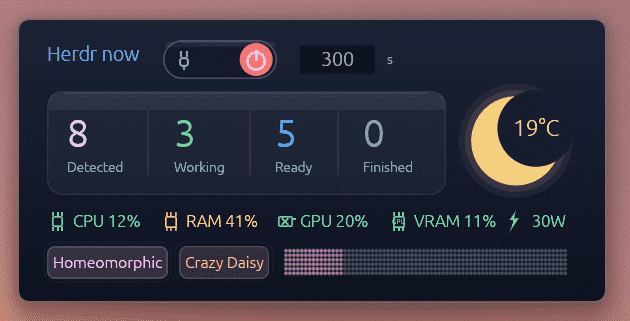
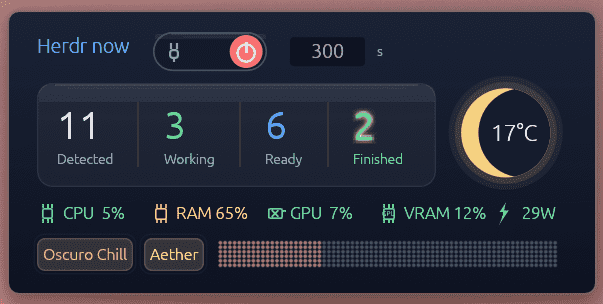
feat(live-status): polish finished KPI and release screenshots
- Highlight finished agents with a restrained halo treatment\n- Separate energy actions from tray diagnostics in the log viewer\n- Refresh German and English release screenshots and README links\n\nCo-Authored-By: Codex <noreply@openai.com>

diff --git a/src/log_viewer.rs b/src/log_viewer.rs
@@ -37,6 +37,7 @@ pub fn run() -> Result<()> {
                 window_settings::WindowLevel::current(),
             ))
             .with_title(log_title(language)),
+        renderer: eframe::Renderer::Glow,
         ..Default::default()
     };
     eframe::run_native(
@@ -76,9 +77,17 @@ struct LogEntry {
     run_id: String,
 }
 
+#[derive(Clone, Copy, PartialEq, Eq)]
+enum LogSection {
+    Energy,
+    Tray,
+}
+
 struct LogApp {
     language: Language,
-    entries: Vec<LogEntry>,
+    energy_entries: Vec<LogEntry>,
+    tray_entries: Vec<LogEntry>,
+    section: LogSection,
     error: Option<String>,
     opacity: Option<u8>,
 }
@@ -87,15 +96,19 @@ impl LogApp {
     fn new() -> Self {
         let language = Language::current();
         match load_entries() {
-            Ok(entries) => Self {
+            Ok((energy_entries, tray_entries)) => Self {
                 language,
-                entries,
+                energy_entries,
+                tray_entries,
+                section: LogSection::Energy,
                 error: None,
                 opacity: None,
             },
             Err(_) => Self {
                 language,
-                entries: Vec::new(),
+                energy_entries: Vec::new(),
+                tray_entries: Vec::new(),
+                section: LogSection::Energy,
                 error: Some(
                     language
                         .text(
@@ -151,12 +164,38 @@ impl eframe::App for LogApp {
                 );
                 ui.label(
                     egui::RichText::new(self.language.text(
-                        "Die letzten 30 Energieaktionen und Tray-Ereignisse",
-                        "The last 30 power actions and tray events",
+                        "Energieaktionen und Tray-Diagnose getrennt",
+                        "Power actions and tray diagnostics, separated",
                     ))
                     .color(GRAY),
                 );
                 ui.add_space(12.0);
+                ui.horizontal(|ui| {
+                    let energy_count = self.energy_entries.len();
+                    let tray_count = self.tray_entries.len();
+                    let energy_label = format!(
+                        "{} ({energy_count})",
+                        self.language.text("Energieaktionen", "Power actions")
+                    );
+                    let tray_label = format!(
+                        "{} ({tray_count})",
+                        self.language
+                            .text("Tray und Diagnose", "Tray and diagnostics")
+                    );
+                    if ui
+                        .selectable_label(self.section == LogSection::Energy, energy_label)
+                        .clicked()
+                    {
+                        self.section = LogSection::Energy;
+                    }
+                    if ui
+                        .selectable_label(self.section == LogSection::Tray, tray_label)
+                        .clicked()
+                    {
+                        self.section = LogSection::Tray;
+                    }
+                });
+                ui.add_space(8.0);
                 egui::Frame::group(ui.style())
                     .fill(egui::Color32::from_rgba_unmultiplied(255, 255, 255, 10))
                     .stroke(egui::Stroke::new(
@@ -168,16 +207,28 @@ impl eframe::App for LogApp {
                     .show(ui, |ui| {
                         if let Some(error) = &self.error {
                             ui.colored_label(RED, error);
-                        } else if self.entries.is_empty() {
-                            ui.label(
-                                self.language
-                                    .text("Noch keine Einträge.", "No entries yet."),
-                            );
                         } else {
+                            let entries = match self.section {
+                                LogSection::Energy => &self.energy_entries,
+                                LogSection::Tray => &self.tray_entries,
+                            };
+                            let empty_message = match self.section {
+                                LogSection::Energy => self
+                                    .language
+                                    .text("Noch keine Energieaktionen.", "No power actions yet."),
+                                LogSection::Tray => self.language.text(
+                                    "Noch keine Tray- oder Diagnoseereignisse.",
+                                    "No tray or diagnostic events yet.",
+                                ),
+                            };
+                            if entries.is_empty() {
+                                ui.label(empty_message);
+                                return;
+                            }
                             egui::ScrollArea::vertical()
                                 .auto_shrink([false, false])
                                 .show(ui, |ui| {
-                                    for (index, entry) in self.entries.iter().enumerate() {
+                                    for (index, entry) in entries.iter().enumerate() {
                                         if index > 0 {
                                             ui.separator();
                                         }
@@ -191,15 +242,15 @@ impl eframe::App for LogApp {
     }
 }
 
-fn load_entries() -> Result<Vec<LogEntry>> {
+fn load_entries() -> Result<(Vec<LogEntry>, Vec<LogEntry>)> {
     let paths = log_paths()?;
-    let mut entries = Vec::new();
-    for path in paths {
-        entries.extend(load_entries_from(&path)?);
+    let mut energy_entries = load_entries_from(&paths[0])?;
+    let mut tray_entries = load_entries_from(&paths[1])?;
+    for entries in [&mut energy_entries, &mut tray_entries] {
+        entries.sort_unstable_by(|left, right| right.timestamp.cmp(&left.timestamp));
+        entries.truncate(30);
     }
-    entries.sort_unstable_by(|left, right| right.timestamp.cmp(&left.timestamp));
-    entries.truncate(30);
-    Ok(entries)
+    Ok((energy_entries, tray_entries))
 }
 
 fn load_entries_from(path: &Path) -> Result<Vec<LogEntry>> {

diff --git a/src/live_status.rs b/src/live_status.rs
@@ -829,13 +829,20 @@ impl eframe::App for LiveStatusApp {
                                     let old_spacing = ui.spacing().item_spacing.x;
                                     ui.spacing_mut().item_spacing.x = 4.0;
                                     ui.horizontal(|ui| {
-                                        metric(ui, self.language.text("Erkannt", "Detected"), agents.total, TEXT);
+                                        metric(ui, self.language.text("Erkannt", "Detected"), agents.total, TEXT, false);
                                         divider(ui);
-                                        metric(ui, self.language.text("Arbeitet", "Working"), agents.working, GREEN);
+                                        metric(ui, self.language.text("Arbeitet", "Working"), agents.working, GREEN, false);
                                         divider(ui);
-                                        metric(ui, self.language.text("Bereit", "Ready"), agents.idle, ACCENT);
+                                        metric(ui, self.language.text("Bereit", "Ready"), agents.idle, ACCENT, false);
                                         divider(ui);
-                                        metric(ui, self.language.text("Fertig", "Finished"), agents.done, GRAY);
+                                        let finished = agents.done > 0;
+                                        metric(
+                                            ui,
+                                            self.language.text("Fertig", "Finished"),
+                                            agents.done,
+                                            if finished { GREEN } else { GRAY },
+                                            finished,
+                                        );
                                     });
                                     ui.spacing_mut().item_spacing.x = old_spacing;
                                 } else {
@@ -1759,16 +1766,59 @@ fn gradient_color_at(rect: egui::Rect, point: egui::Pos2) -> egui::Color32 {
     )
 }
 
-fn metric(ui: &mut egui::Ui, label: &str, value: usize, color: egui::Color32) {
+fn metric(ui: &mut egui::Ui, label: &str, value: usize, color: egui::Color32, highlight: bool) {
     ui.vertical(|ui| {
+        let value_text = value.to_string();
+        if highlight {
+            glowing_metric_text(ui, &value_text, 26.0, color);
+        } else {
+            ui.label(
+                egui::RichText::new(value_text)
+                    .size(26.0)
+                    .strong()
+                    .color(color),
+            );
+        }
         ui.label(
-            egui::RichText::new(value.to_string())
-                .size(26.0)
-                .strong()
-                .color(color),
+            egui::RichText::new(label)
+                .small()
+                .color(if highlight { GREEN } else { GRAY }),
         );
-        ui.label(egui::RichText::new(label).small().color(GRAY));
     });
+}
+
+fn glowing_metric_text(ui: &mut egui::Ui, text: &str, size: f32, color: egui::Color32) {
+    let font_id = egui::FontId::proportional(size);
+    let galley = ui.painter().layout_no_wrap(text.to_owned(), font_id, color);
+    let (rect, _) = ui.allocate_exact_size(galley.size(), egui::Sense::hover());
+    for (radius, color, alpha) in [
+        (3.0, (255, 215, 110), 12),
+        (2.0, (255, 225, 140), 24),
+        (1.0, (255, 255, 255), 42),
+    ] {
+        let halo = egui::Color32::from_rgba_unmultiplied(color.0, color.1, color.2, alpha);
+        for dx in -1..=1 {
+            for dy in -1..=1 {
+                if dx == 0 && dy == 0 {
+                    continue;
+                }
+                ui.painter().text(
+                    rect.min + egui::vec2(dx as f32 * radius, dy as f32 * radius),
+                    egui::Align2::LEFT_TOP,
+                    text,
+                    egui::FontId::proportional(size),
+                    halo,
+                );
+            }
+        }
+    }
+    ui.painter().text(
+        rect.min,
+        egui::Align2::LEFT_TOP,
+        text,
+        egui::FontId::proportional(size),
+        color,
+    );
 }
 
 fn system_metrics_row(ui: &mut egui::Ui, metrics: SystemMetrics, language: Language) -> f32 {

diff --git a/docs/02-bedienung-und-zustaende.md b/docs/02-bedienung-und-zustaende.md
@@ -23,7 +23,7 @@ Das Menü sperrt Start, Beobachtung, Demo und Stopp passend zum aktiven Zustand.
 | `Demo: Abschluss simulieren` | Simuliert Ruhezeit und Warnung in wenigen Sekunden. | `demo=true` und `dry_run=true`; kein Herdr-Check und kein echter Shutdown. |
 | `Live-Status öffnen` | Öffnet ein kleines bewegliches Statusfenster mit einem klickbaren Mond, Abschluss-Schalter, Sekundenfeld und Temperaturanzeige. | Linksklick auf das Tray-Symbol öffnet dasselbe Fenster, Rechtsklick zeigt dieses Menü. Klick auf den grauen Mond startet, Klick auf einen farbigen Mond stoppt über denselben sicheren Pfad wie das Tray-Menü. Der Schalter wählt links mit Stecker Energiesparmodus und rechts mit Power-Symbol Herunterfahren. Das Feld legt die Warnfrist von 10 bis 3.600 Sekunden für den nächsten Nachtlauf fest. Nach einem Klick erscheint drei Sekunden ein Toast; das X schließt nur das Fenster. |
 | `Live-Fenster beim Start öffnen` | Speichert, ob die Tray-App beim Start zusätzlich das Live-Fenster öffnen soll. | Der Standard ist Tray-only. Die Einstellung startet keinen Nachtlauf und verändert keine Wächterentscheidung. |
-| `Protokoll öffnen` | Öffnet `watch.log` im Editor. | Dient nur der Diagnose. Das obere Protokoll-Symbol im Live-Fenster öffnet stattdessen das gestaltete Abschlussprotokoll mit den letzten 30 Energieaktionen. |
+| `Protokoll öffnen` | Öffnet `watch.log` im Editor. | Dient nur der Rohdiagnose. Das obere Protokoll-Symbol im Live-Fenster öffnet stattdessen das gestaltete Abschlussprotokoll mit getrennten Bereichen für Energieaktionen und Tray-/Diagnoseereignisse. Beide Bereiche zeigen jeweils bis zu 30 Einträge. |
 | `Wetterort ändern` | Wird über das kleine Wettersymbol unten rechts im Live-Fenster geöffnet. Sucht Städte oder Postleitzahlen und speichert den ausgewählten Treffer lokal. | Die Temperatur ist rein informativ. Netzwerkfehler führen zu `—` oder zum letzten Wert und können den Nachtwächter nie beeinflussen. |
 | `Mit Windows starten` | Registriert die Tray-App für den Benutzer-Login. | Scharfstellt niemals automatisch einen Nachtlauf. |
 | `Tray-App beenden` | Beendet die Bedienoberfläche. | Ein aktiver Nachtlauf wird vorher sicher abgebrochen, damit keine sichtbare Warnmöglichkeit verloren geht. |
@@ -78,7 +78,7 @@ Damit lässt sich das sichtbare Ende des Ablaufs testen, ohne Herdr-Arbeit zu ve
 
 Der Nachtlauf beobachtet fortlaufend den aktuellen Herdr-Status. Beginnt nach dem Scharfstellen neue Arbeit in einem anderen Pane, gehört sie automatisch dazu und setzt eine laufende Ruhezeit zurück. Beginnt sie während der Warnfrist, bricht der Wächter seinen eigenen Windows-Countdown ab und beobachtet weiter. Nicht von Herdr verwaltete Shell-Prozesse sind absichtlich außerhalb der Entscheidung.
 
-Fällt die Internetverbindung aus, zählt das nicht sofort als „fertig“. Erst nach fünf Minuten ohne erfolgreiche Antwort von zwei unabhängigen Verbindungschecks beginnt die normale Warnfrist. Das Warnfenster erklärt den Grund. Kommt Internet während des Countdowns zurück, wird der Countdown abgebrochen. Im Installationsordner stehen `logs\completion-history.csv` für angeforderte Energiespar- oder Shutdown-Vorgänge und `logs\tray-history.csv` für erkannte unplanmäßige Tray-Enden. Der Log-Viewer führt beide Dateien zusammen und zeigt die letzten 30 Ereignisse mit Datum, Uhrzeit und Auslöser.
+Fällt die Internetverbindung aus, zählt das nicht sofort als „fertig“. Erst nach fünf Minuten ohne erfolgreiche Antwort von zwei unabhängigen Verbindungschecks beginnt die normale Warnfrist. Das Warnfenster erklärt den Grund. Kommt Internet während des Countdowns zurück, wird der Countdown abgebrochen. Im Installationsordner stehen `logs\completion-history.csv` für angeforderte Energiespar- oder Shutdown-Vorgänge und `logs\tray-history.csv` für erkannte unplanmäßige Tray-Enden. Der Log-Viewer zeigt diese Quellen getrennt in den Bereichen „Energieaktionen“ und „Tray und Diagnose“, jeweils mit bis zu 30 Einträgen sowie Datum, Uhrzeit und Auslöser. Die Oberfläche und die Meldungen wechseln mit der globalen Spracheinstellung zwischen Deutsch und Englisch.
 
 Wenn das Tray-Symbol nicht direkt sichtbar ist, liegt es möglicherweise im ausgeklappten Bereich der Windows-Taskleiste hinter dem Pfeil `^`. Das ist ein Windows-Verhalten und kein Zeichen, dass der Wächter gestoppt wurde.
 
@@ -90,7 +90,7 @@ Während `Aktiv`, `Ruhezeit` oder `Warnfrist` setzt die Tray-App außerdem eine 
 
 Der kompakte Tooltip lautet zum Beispiel `Aus · Herdr 4/10 aktiv`. Das ist die aktuelle Zahl aller von Herdr gemeldeten Agenten und beantwortet die Kontrollfrage „arbeitet Herdr gerade wirklich parallel?“, ohne an der Windows-Zeichengrenze abgeschnitten zu werden. Im laufenden Nachtmodus ist genau diese aktuelle Herdr-Sicht auch die Grundlage der Überwachung.
 
-Das Fenster ist ein normales Windows-Fenster: frei verschiebbar, minimierbar und über das X schließbar. Es ist absichtlich kompakt, aber mit einem ruhigen Außenabstand von 20 Pixeln: Live-Zahlen und großer, klickbarer Mond stehen gemeinsam auf einer Zeile und haben dieselbe optische Höhe. Rechts neben „Herdr jetzt“ liegen der kleine Schalter für die Abschlussaktion und das Sekundenfeld für die Warnfrist. Links Stecker bedeutet Energiesparmodus, rechts Power-Symbol Herunterfahren. Das Sekundenfeld akzeptiert 10 bis 3.600 Sekunden und speichert beim Verlassen des Feldes. Während ein Nachtmodus läuft, sind beide bewusst gesperrt, weil ihre Werte dafür schon sicher gespeichert wurden. Rot zeigt die Warnfrist; direkt unter dem Mond läuft dann ein sichtbarer Minuten-und-Sekunden-Countdown. Grau bedeutet kein Nachtlauf und ein Klick startet den Nachtmodus. Grün bedeutet aktiver Nachtmodus und ein Klick stoppt ihn. Blau und gelb kennzeichnen Beobachtung und Ruhezeit und lassen sich ebenfalls sicher stoppen. Nach einem Klick wechselt der Mond sofort in den erwarteten Zustand, während der sichere Hintergrundschritt noch bestätigt wird. Nach erfolgreicher Bestätigung erscheint unten für drei Sekunden ein Toast mit „Nachtmodus aktiv“ oder „Nachtmodus deaktiviert“. Beim Darüberfahren zeigt der Mond den aktuellen Zustand und darunter die Wirkung des nächsten Klicks. Das Fenster kann manuell über Tray oder Linksklick geöffnet werden und lässt sich zusätzlich über die Startoption automatisch mit der Tray-App öffnen; beim Schließen bleiben Tray-App und Wächter unverändert aktiv. Unter **Fenstereinstellungen** kann außerdem der Eintrag des Live-Fensters in der Windows-Taskleiste ein- oder ausgeblendet werden. Das Ausblenden entfernt nur den Taskleisten-Eintrag, nicht das sichtbare Fenster auf dem Desktop.
+Das Fenster ist ein normales Windows-Fenster: frei verschiebbar, minimierbar und über das X schließbar. Es ist absichtlich kompakt, aber mit einem ruhigen Außenabstand von 20 Pixeln: Live-Zahlen und großer, klickbarer Mond stehen gemeinsam auf einer Zeile und haben dieselbe optische Höhe. Rechts neben „Herdr jetzt“ liegen der kleine Schalter für die Abschlussaktion und das Sekundenfeld für die Warnfrist. Links Stecker bedeutet Energiesparmodus, rechts Power-Symbol Herunterfahren. Das Sekundenfeld akzeptiert 10 bis 3.600 Sekunden und speichert beim Verlassen des Feldes. Während ein Nachtmodus läuft, sind beide bewusst gesperrt, weil ihre Werte dafür schon sicher gespeichert wurden. Rot zeigt die Warnfrist; direkt unter dem Mond läuft dann ein sichtbarer Minuten-und-Sekunden-Countdown. Grau bedeutet kein Nachtlauf und ein Klick startet den Nachtmodus. Grün bedeutet aktiver Nachtmodus und ein Klick stoppt ihn. Blau und gelb kennzeichnen Beobachtung und Ruhezeit und lassen sich ebenfalls sicher stoppen. Sobald mindestens ein Agent im aktuellen Herdr-Status fertig gemeldet ist, werden Zahl und Beschriftung „Fertig“ grün dargestellt. Die Zahl erhält zusätzlich eine feine weiße 1-Pixel-Kontur und einen sehr dezenten Lichtsaum. Bei null kehren beide wieder zu Grau zurück. Nach einem Klick wechselt der Mond sofort in den erwarteten Zustand, während der sichere Hintergrundschritt noch bestätigt wird. Nach erfolgreicher Bestätigung erscheint unten für drei Sekunden ein Toast mit „Nachtmodus aktiv“ oder „Nachtmodus deaktiviert“. Beim Darüberfahren zeigt der Mond den aktuellen Zustand und darunter die Wirkung des nächsten Klicks. Das Fenster kann manuell über Tray oder Linksklick geöffnet werden und lässt sich zusätzlich über die Startoption automatisch mit der Tray-App öffnen; beim Schließen bleiben Tray-App und Wächter unverändert aktiv. Unter **Fenstereinstellungen** kann außerdem der Eintrag des Live-Fensters in der Windows-Taskleiste ein- oder ausgeblendet werden. Das Ausblenden entfernt nur den Taskleisten-Eintrag, nicht das sichtbare Fenster auf dem Desktop.
 
 Der gespeicherte Sekundenwert ist die maßgebliche Einstellung: Start über Mond oder Tray übernimmt ihn unverändert. Das Windows-Startskript übergibt nur dann eine Warnfrist, wenn es ausdrücklich mit einem eigenen Sekundenwert aufgerufen wird.
 

diff --git a/docs/01-systembild.md b/docs/01-systembild.md
@@ -79,7 +79,7 @@ Der Wächter legt seinen Zustand unter `~/.local/state/herdr-night-watch/` in de
 | `settings.json` | Bevorzugte Abschlussaktion und Warnfrist für den nächsten Nachtlauf: `sleep` oder `shutdown`, 10 bis 3.600 Sekunden |
 | `watch.lock` | Verhindert zwei gleichzeitige Wächterprozesse |
 | `watch.log` | Zeitstempel-Protokoll aller wichtigen Entscheidungen |
-| Windows-Installationsordner `logs\\completion-history.csv` und `logs\\tray-history.csv` | Getrennte Quellen für Energieaktionen und Tray-Ereignisse; der Viewer führt die letzten 30 Ereignisse zusammen |
+| Windows-Installationsordner `logs\\completion-history.csv` und `logs\\tray-history.csv` | Getrennte Quellen für Energieaktionen und Tray-Ereignisse; der Viewer zeigt beide Quellen in getrennten Bereichen mit jeweils bis zu 30 Einträgen |
 | Windows-Installationsordner `logs\\tray-session.json` | Temporärer Marker für eine laufende Tray-Sitzung; fehlt beim nächsten Start der saubere Abschluss, wird ein unplanmäßiges Ende im Abschlussprotokoll vermerkt |
 | Windows-Installationsordner `logs\\cancellation-history.csv` | Letzte 30 manuell oder vom Warnfenster abgebrochene Nachtläufe mit genauer Abbruchquelle |
 
@@ -91,7 +91,7 @@ Solange der Nachtlauf den Zustand `Watching` oder `ShutdownWarning` meldet, setz
 
 Für Neustarts vergleicht der Wächter nicht nur die WSL-Boot-ID, sondern zusätzlich die letzte Windows-Bootzeit. Ändert sich eine der beiden Marken, gilt der alte Lauf als veraltet: Warnung und aktiver Zustand werden zurückgesetzt und als `system_restart` protokolliert.
 
-Der Wächter prüft zusätzlich zwei unabhängige Internet-Endpunkte. Erst wenn beide fünf Minuten durchgehend nicht erreichbar sind, startet er dieselbe sichtbare Warnfrist wie bei fertig gemeldeten Agenten. Kommt die Verbindung während dieser Frist zurück, bricht er seine eigene Warnung ab und überwacht weiter. Jeder tatsächliche Abschluss wird als angeforderter Energiesparmodus oder Shutdown in `completion-history.csv` aufgezeichnet. Erkannte unplanmäßige Tray-Enden landen getrennt in `tray-history.csv`; der Log-Viewer führt beide Quellen zusammen und begrenzt die sichtbare Liste auf 30 Einträge.
+Der Wächter prüft zusätzlich zwei unabhängige Internet-Endpunkte. Erst wenn beide fünf Minuten durchgehend nicht erreichbar sind, startet er dieselbe sichtbare Warnfrist wie bei fertig gemeldeten Agenten. Kommt die Verbindung während dieser Frist zurück, bricht er seine eigene Warnung ab und überwacht weiter. Jeder tatsächliche Abschluss wird als angeforderter Energiesparmodus oder Shutdown in `completion-history.csv` aufgezeichnet. Erkannte unplanmäßige Tray-Enden landen getrennt in `tray-history.csv`; der Log-Viewer zeigt beide Quellen in getrennten Bereichen und begrenzt jeden Bereich auf 30 Einträge.
 
 Die Tray-App schreibt zusätzlich während ihrer Laufzeit einen temporären Sitzungsmarker. Beim normalen Beenden wird er entfernt. Findet ein späterer Start den Marker ohne `expected_exit`, ergänzt er `tray-history.csv` um „Tray-App unplanmäßig beendet“. Das beweist keinen Absturz im engeren Sinn: Es kann auch ein erzwungenes Beenden, ein Windows-Neustart oder ein Stromverlust gewesen sein. Erwartete Energieaktionen werden vorher markiert und erzeugen keinen falschen Absturz-Eintrag.
 

diff --git a/README.md b/README.md
@@ -59,9 +59,9 @@ For a checkout of this repository, the path normally looks like `/home/your-name
 
 ## Live status
 
-![Herdr Night Watch live status in German](https://github.com/simfor99/herdr-night-watch/releases/download/v0.1.19/Screenshot.2026-08-17.155415.png)
+![Herdr Night Watch live status in German](https://github.com/simfor99/herdr-night-watch/releases/download/v0.1.20/live-status-de.png)
 
-![Herdr Night Watch live status in English](https://github.com/simfor99/herdr-night-watch/releases/download/v0.1.19/Screenshot.2026-08-17.155405.png)
+![Herdr Night Watch live status in English](https://github.com/simfor99/herdr-night-watch/releases/download/v0.1.20/live-status-en.png)
 
 The live window is intentionally compact: Herdr counts and the night-mode controls remain in the main panel, while the equal-width footer turns it into a quick system monitor without affecting the watcher. CPU, RAM, GPU, VRAM utilization, and NVIDIA GPU power use a soft traffic-light palette: green for normal load, pastel yellow for medium load, and pastel red for high load. Missing hardware telemetry is shown as `—` rather than guessed. The small upper-right control hood opens the last 30 completion actions and cycles the window between normal, always-on-top, and always-in-background modes. Its glass surfaces use a subtle top reflection to keep the dashboard calm but tactile. The tray menu lets you choose window opacity from 100% down to 10%.
 

diff --git a/docs/04-entwicklung-und-test.md b/docs/04-entwicklung-und-test.md
@@ -29,7 +29,7 @@ Diese Regeln sind Testspezifikation, nicht bloß Beschreibung:
 - Energiesparmodus darf weder `shutdown.exe /s` noch `shutdown.exe /a` ausführen.
 - Nur eine positive Benutzerbestätigung der eigenen aktiven Warnung darf Energiesparmodus oder Herunterfahren vor Ablauf der Warnfrist auslösen.
 - Internet-Ausfall löst erst nach fünf Minuten und nur über dieselbe sichtbare Warnfrist aus; Rückkehr der Verbindung bricht diese Warnung ab.
-- `completion-history.csv` protokolliert die angeforderten Energieaktionen des WSL-Wächters. `tray-history.csv` protokolliert erkannte unplanmäßige Tray-Enden. Der Log-Viewer führt beide Dateien zusammen und zeigt höchstens 30 Ereignisse.
+- `completion-history.csv` protokolliert die angeforderten Energieaktionen des WSL-Wächters. `tray-history.csv` protokolliert erkannte unplanmäßige Tray-Enden. Der Log-Viewer zeigt beide Dateien in getrennten Bereichen und höchstens 30 Einträge je Bereich.
 - `cancellation-history.csv` darf höchstens 30 Ereignisse enthalten und muss die konkrete Abbruchquelle speichern.
 - `--cancel` darf nur einen Shutdown abbrechen, für den eine gültige eigene Warnungsdatei existiert.
 - Die Tray-App und ihre Hilfsprozesse dürfen keine sichtbaren Konsolenfenster erzeugen.

diff --git a/docs/CHANGELOG.md b/docs/CHANGELOG.md
@@ -5,6 +5,14 @@
 
 ## [2026-08-17] - Medienzeile und Live-Layout v0.1.19
 
+### 📋 Abschlussprotokoll
+
+- **Energie und Diagnose getrennt** - Das Abschlussprotokoll trennt Energieaktionen von Tray- und Diagnoseereignissen. Beide Bereiche zeigen jeweils bis zu 30 Einträge und übersetzen Beschriftungen sowie Meldungen vollständig ins Englische.
+
+### 📊 Live-Dashboard
+
+- **Fertige Agenten sichtbar hervorgehoben** - Sobald mindestens ein Agent fertig gemeldet ist, werden Zahl und Beschriftung grün dargestellt. Die Zahl erhält zusätzlich eine feine weiße 1-Pixel-Kontur und einen sehr dezenten Lichtsaum. Bei null kehren beide zu Grau zurück.
+
 ### 🎵 Live-Status
 
 - **Kompakte Medienanzeige** - Aktueller Interpret und Songtitel erscheinen im Footer, wenn Windows eine Mediensession meldet.
